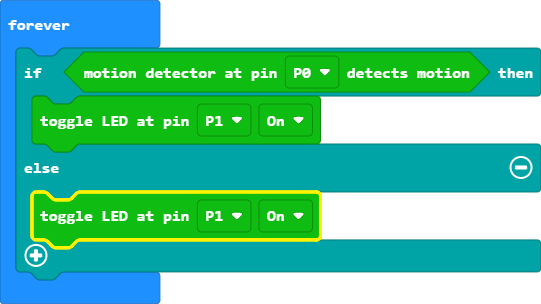
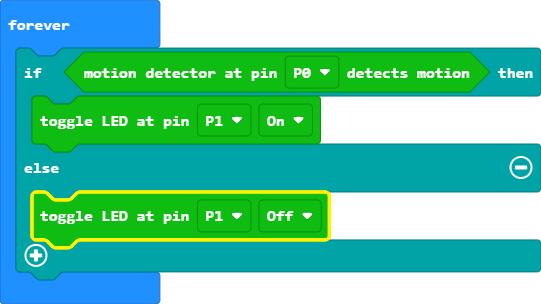
p1 off

Changed region(s): [[0.5028, 0.6217, 0.6211, 0.7993]]

diff --git a/main.ts b/main.ts
@@ -2,6 +2,6 @@ basic.forever(function () {
     if (tinkercademy.PIR(DigitalPin.P0)) {
         tinkercademy.LED(DigitalPin.P1, OnOff.On)
     } else {
-        tinkercademy.LED(DigitalPin.P1, OnOff.On)
+        tinkercademy.LED(DigitalPin.P1, OnOff.Off)
     }
 })
